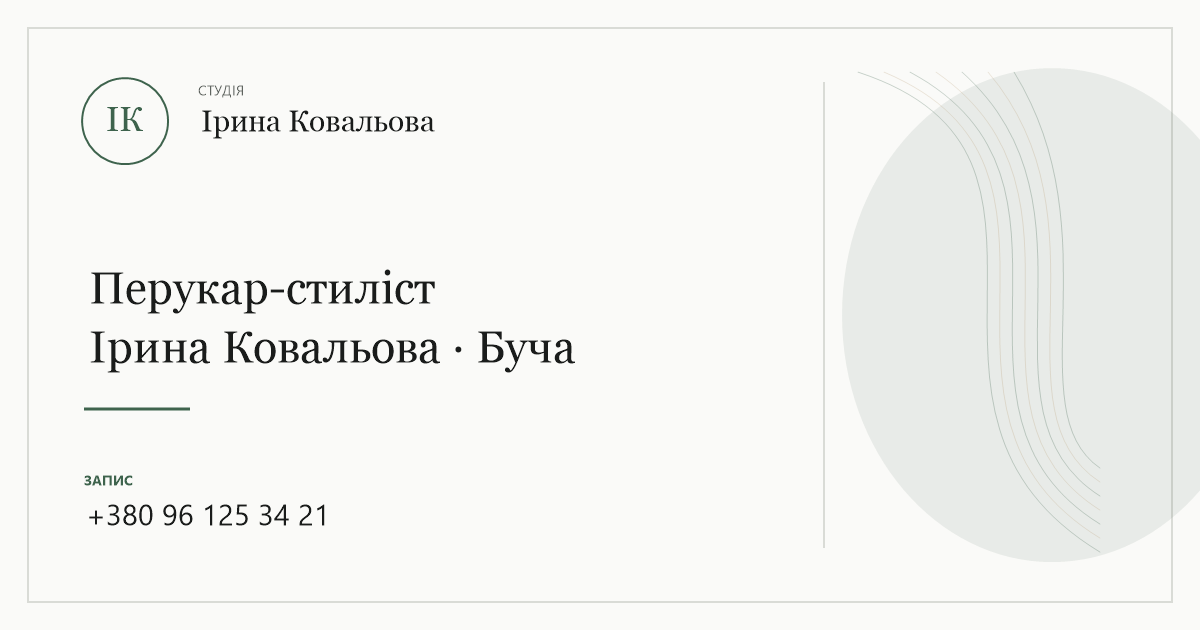
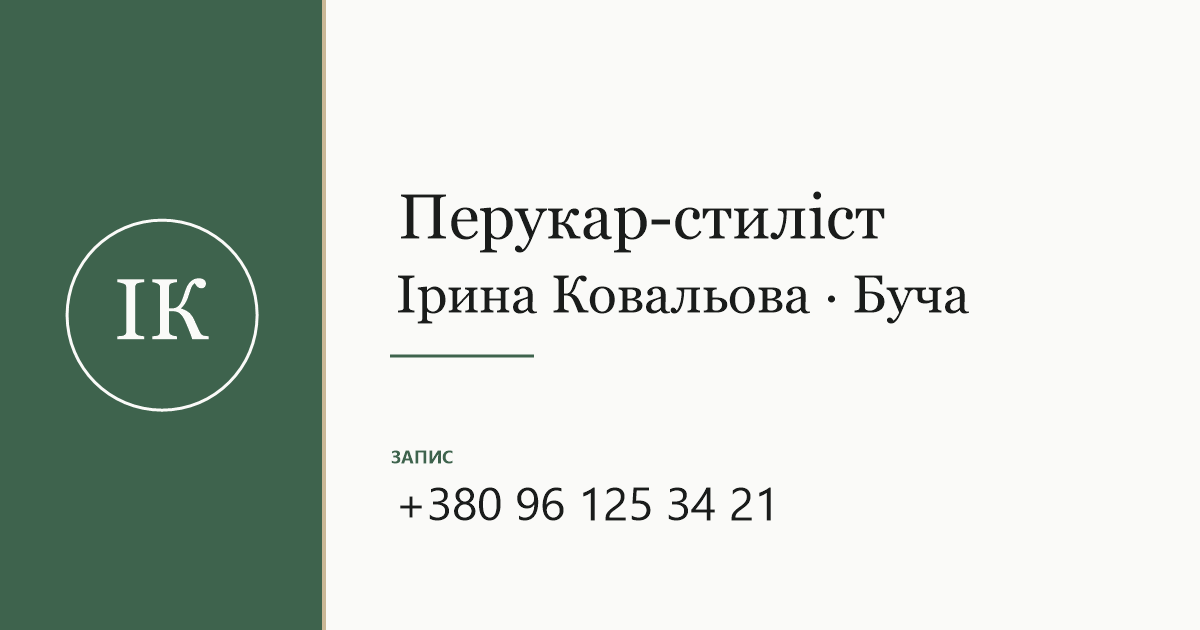
4

diff --git a/index.html b/index.html
@@ -9,20 +9,20 @@
   <link rel="canonical" href="https://kovalova-studio.com.ua/">
   <meta property="og:locale" content="uk_UA">
   <meta property="og:type" content="website">
-  <meta property="og:site_name" content="Студія Ірина Ковальова">
-  <meta property="og:title" content="Студія Ірина Ковальова — перукар-стиліст у Бучі">
-  <meta property="og:description" content="Перукар-стиліст Ірина Ковальова · Буча">
+  <meta property="og:site_name" content="Студія ІК">
+  <meta property="og:title" content="Здорове волосся. Видима краса.">
+  <meta property="og:description" content="Реконструкція волосся, фарбування, стрижки та зачіски у Бучі.">
   <meta property="og:url" content="https://kovalova-studio.com.ua/">
-  <meta property="og:image" content="https://kovalova-studio.com.ua/images/og-preview.png">
+  <meta property="og:image" content="https://kovalova-studio.com.ua/images/og-preview.png?v=2">
   <meta property="og:image:type" content="image/png">
   <meta property="og:image:width" content="1200">
   <meta property="og:image:height" content="630">
-  <meta property="og:image:alt" content="Студія Ірини Ковальової у Бучі. Перукар-стиліст, запис за телефоном +380 96 125 34 21">
+  <meta property="og:image:alt" content="Емблема ІК. Перукар-стиліст Ірина Ковальова у Бучі. Запис: +380 96 125 34 21">
   <meta name="twitter:card" content="summary_large_image">
-  <meta name="twitter:title" content="Студія Ірина Ковальова — перукар-стиліст у Бучі">
-  <meta name="twitter:description" content="Перукар-стиліст Ірина Ковальова · Буча">
-  <meta name="twitter:image" content="https://kovalova-studio.com.ua/images/og-preview.png">
-  <meta name="twitter:image:alt" content="Студія Ірини Ковальової у Бучі. Запис за телефоном +380 96 125 34 21">
+  <meta name="twitter:title" content="Здорове волосся. Видима краса.">
+  <meta name="twitter:description" content="Реконструкція волосся, фарбування, стрижки та зачіски у Бучі.">
+  <meta name="twitter:image" content="https://kovalova-studio.com.ua/images/og-preview.png?v=2">
+  <meta name="twitter:image:alt" content="Емблема ІК. Перукар-стиліст Ірина Ковальова у Бучі. Запис: +380 96 125 34 21">
 
   <link rel="icon" type="image/svg+xml" href="images/favicon.svg">
   <link rel="preconnect" href="https://fonts.googleapis.com">
